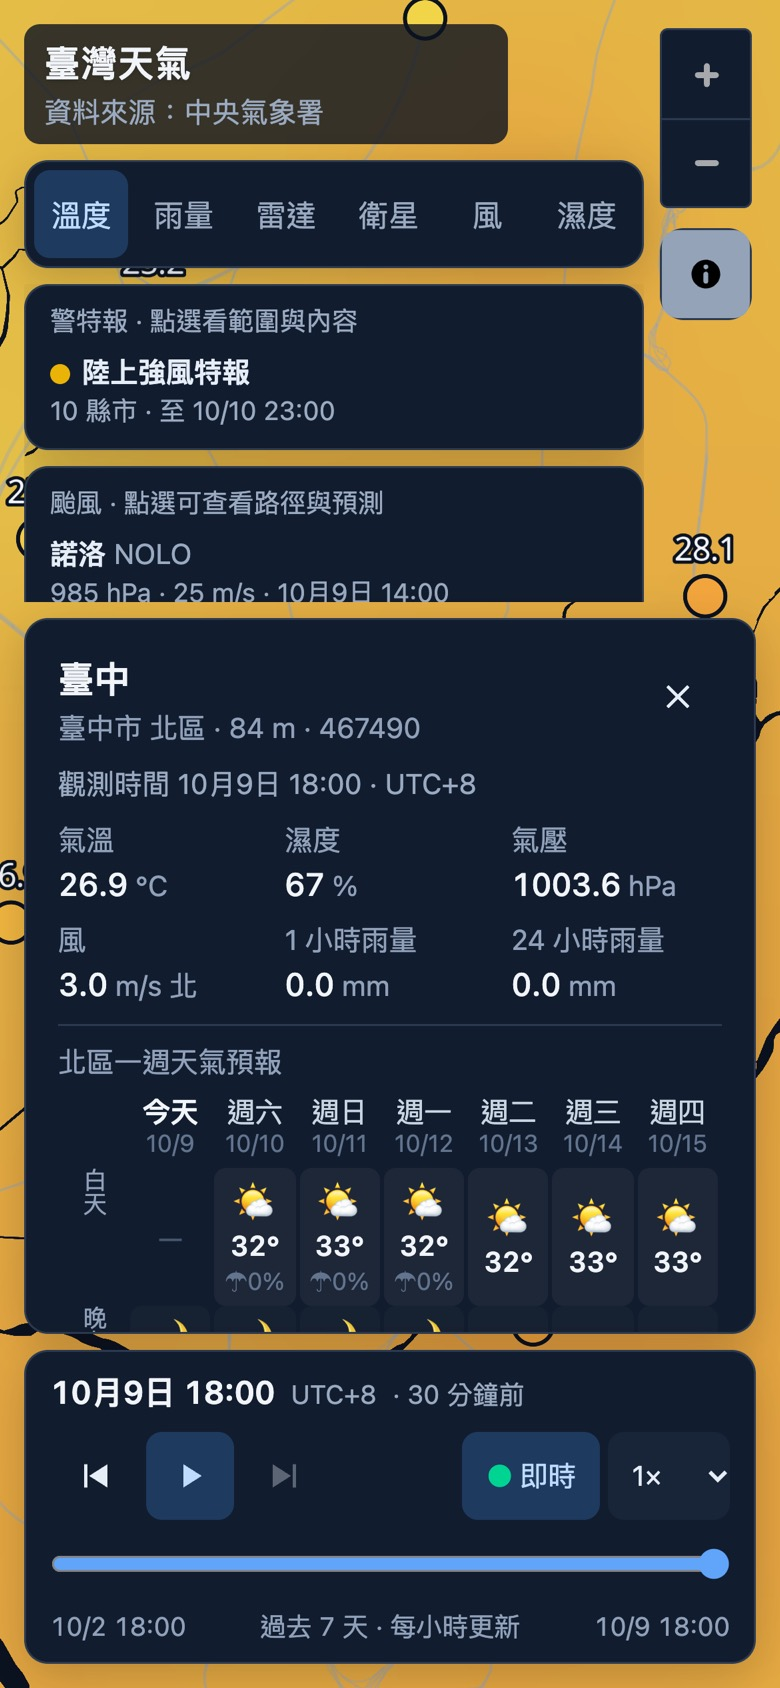
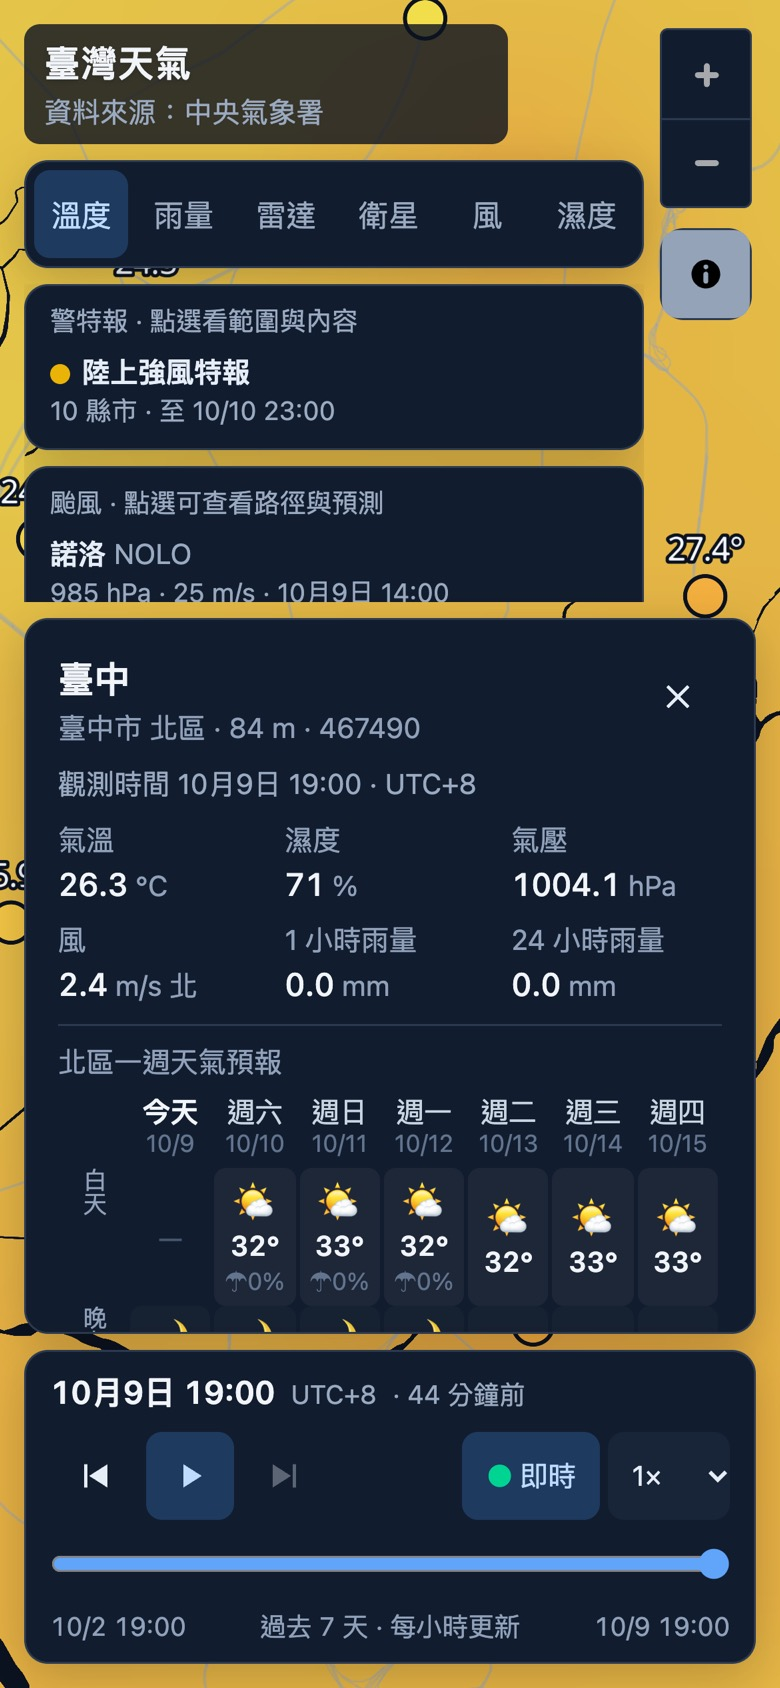
docs: close the plan, lightning dropped; retake the station screenshots

diff --git a/DESIGN.md b/DESIGN.md
@@ -1,6 +1,6 @@
 # Taiwan Weather Map — System Design (as built)
 
-This document describes the system as it runs today, not as it was first planned. The original plan (September 2026) listed wind particles, satellite, lightning, typhoon tracks and warnings; what shipped is the subset in §3, and the rest is listed in §20 with what it would take. Where a decision changed along the way, §21 says why.
+This document describes the system as it runs today, not as it was first planned. The original plan (September 2026) listed wind particles, satellite, lightning, typhoon tracks and warnings; all but lightning shipped (§3), and §20 records what was dropped and why. Where a decision changed along the way, §21 says why.
 
 Live: <https://a-io-t-dic-l3.vercel.app> · Source: `davidlo3917/AIoT-DIC-L3` on GitHub · User guide (zh-TW): `README.md`
 
@@ -97,8 +97,6 @@ Station data:
 The three station datasets overlap (2,581 records, 1,365–1,367 unique stations); later datasets win on metadata. CWA publishes observations about 15 minutes late, and the radar picture 8–10 minutes after its frame time.
 
 Two overlays are drawn over whichever layer is up, both proxied live like the forecast (§7, §13): typhoons (`W-C0034-005`, every active tropical cyclone with CWA's past fixes, wind radii and forecast positions) and county advisories (`W-C0033-001` per county, `W-C0033-002` for the text: 大雨, 豪雨, 陸上強風, 低溫, 濃霧…). The county outlines for the advisories are a static file, `apps/web/public/counties.json`: the 22 counties from taiwan-atlas (MIT, Ministry of the Interior boundaries), arcs simplified to 0.001° and named as CWA names them (臺, not 台), 154 KB.
-
-Not built: lightning (§20).
 
 ---
 
@@ -207,11 +205,11 @@ All public routes are read-only `GET`s under `/api`, JSON, and every response ca
 | `GET /api/health` | `{ ok, db }` — database reachable? | none |
 | `GET /api/stations` | all stations: id, CWA id, name, county, town, WGS84 position, elevation | 1 h |
 | `GET /api/stations/:cwaId/history?from=&to=` | one station's observations in the range (default last 24 h, max 12 days; instants snapped to whole hours) | 60 s |
-| `GET /api/observations?at=` | every station's reading at one instant: per field, the newest non-null value in the 100 min before `at` (stations report at different cadences) | 60 s |
+| `GET /api/observations?at=` | every station's reading at one instant (`at` snapped down to the 10-minute grid): per field, the newest non-null value in the 100 min before it (stations report at different cadences) | 60 s |
 | `GET /api/forecast?county=&town=` | a township's 12-hourly periods for the coming week; proxied live from CWA, nothing stored; only townships that have a station are accepted | 30 min |
 | `GET /api/warnings` | the county advisories in force: phenomenon, period, the counties under it and CWA's text; proxied live, nothing stored | 5 min |
 | `GET /api/typhoons` | every active tropical cyclone: past fixes, the current one with 15/25 m/s wind radii, forecast fixes with the 70 % probability radius; proxied live from CWA, nothing stored | 10 min |
-| `GET /api/frames?layer=&from=&to=` | the timeline contract: `[{ time, url?, bounds?, meta? }]` for `stations`, `radar`, `satellite`, `rain-grid`, `temperature-grid` or `wind`; a range of up to 12 days | 60 s |
+| `GET /api/frames?layer=&from=&to=` | the timeline contract: `[{ time, url?, bounds?, meta? }]` for `stations`, `radar`, `satellite`, `rain-grid`, `temperature-grid` or `wind`; a range of up to 12 days, widened to whole hours | 60 s |
 
 The **frames contract** is the one shape every layer answers in. Station frames are a synthetic 10-minute grid clipped to what is stored (no URL: the browser asks `/observations` per frame). Grid and picture frames carry the Storage URL and the WGS84 bounds; encoded grids also carry their decoding recipe in `meta`. Wind frames are the same shape with times that run past now (the browser asks for `to` = now + 4 days for that layer only) and a `meta` that also names the model run.
 
@@ -477,11 +475,11 @@ Facts worth knowing:
 
 ---
 
-## 20. Not Built, and What It Would Take
+## 20. Dropped from the Plan
 
-| Feature | Status | Shape of the work |
+| Feature | Status | Why |
 |---|---|---|
-| Lightning | not started | `O-A0039-001` KMZ (the past hour's strikes, every 10 min) → a table or per-frame files + a point overlay on the station clock; the placemark format is unseen until a strike happens, and the table once designed for it was dropped on 2026-10-09 so the schema matches what runs |
+| Lightning | dropped 2026-10-09 | `O-A0039-001` is a KMZ of the past hour's strikes; every file fetched during the day held none, so the placemark format was never seen and nothing could be built against it. The project is complete without it |
 | Forecast history (forecast vs. actual) | dropped 2026-10-09 | `forecast_runs` / `forecast_values` were designed for it and removed unused; the township forecast and typhoons are live proxies that keep no versions (§21). Nobody asked to score CWA's forecasts, so there is nothing to build until someone does |
 
 ---
@@ -499,6 +497,7 @@ Facts worth knowing:
 - **2026-10-09** Typhoon tracks shipped as a live proxy plus an overlay, not a layer with history: CWA's document already carries the past track, so storing versions would only pay off for a "forecast vs. actual" feature nobody asked for.
 - **2026-10-09** County advisories shipped the same way. County polygons come from taiwan-atlas rather than g0v's twgeojson (2010 names, 766 split geometries) and are simplified on the TopoJSON arcs, so shared borders stay shared and neighbouring counties never show slivers.
 - **2026-10-09** Wind shipped from the API itself rather than the planned GitHub Actions + ecCodes pipeline: probing the WRF file with range requests showed one Lambert grid, plain 24-bit simple packing and no bitmap, which a 120-line reader handles, so no Python, no Actions and no secrets outside the platform. The timeline gained a forecast: "latest" became the last frame at or before now, and frames may lie ahead of it. Particles went on a 2D canvas instead of WebGL — a few thousand segments a frame need no shader.
+- **2026-10-09** Station dots carry the forecast ahead of now (the field's speed at each anemometer station, drawn inverted) after the user watched them vanish the moment playback entered the forecast; the alternative, a note saying there are no readings, explained the gap without filling it.
 - **2026-10-09** Evening review pass: query instants snapped to the data grid (an unbounded CDN key space was the one load finding of the security review); station labels carry their unit and the station spacing grew to 56 px after measuring one label in eight lost to collisions; a repo-wide audit cut unused fields the typhoon and forecast proxies shipped, duplicated helpers and the pnpm-script layer under the Taskfile.
 - **2026-10-09** Wind timeline made hourly by blending the 6-hourly frames in the browser (what the plan called the shader lerp, done in a loop of 134k cells instead), and the particle canvas moved under the labels by showing it as a canvas source pinned to the view rather than a `CustomLayerInterface`: the source MapLibre already has does the upload and the ordering.
 
